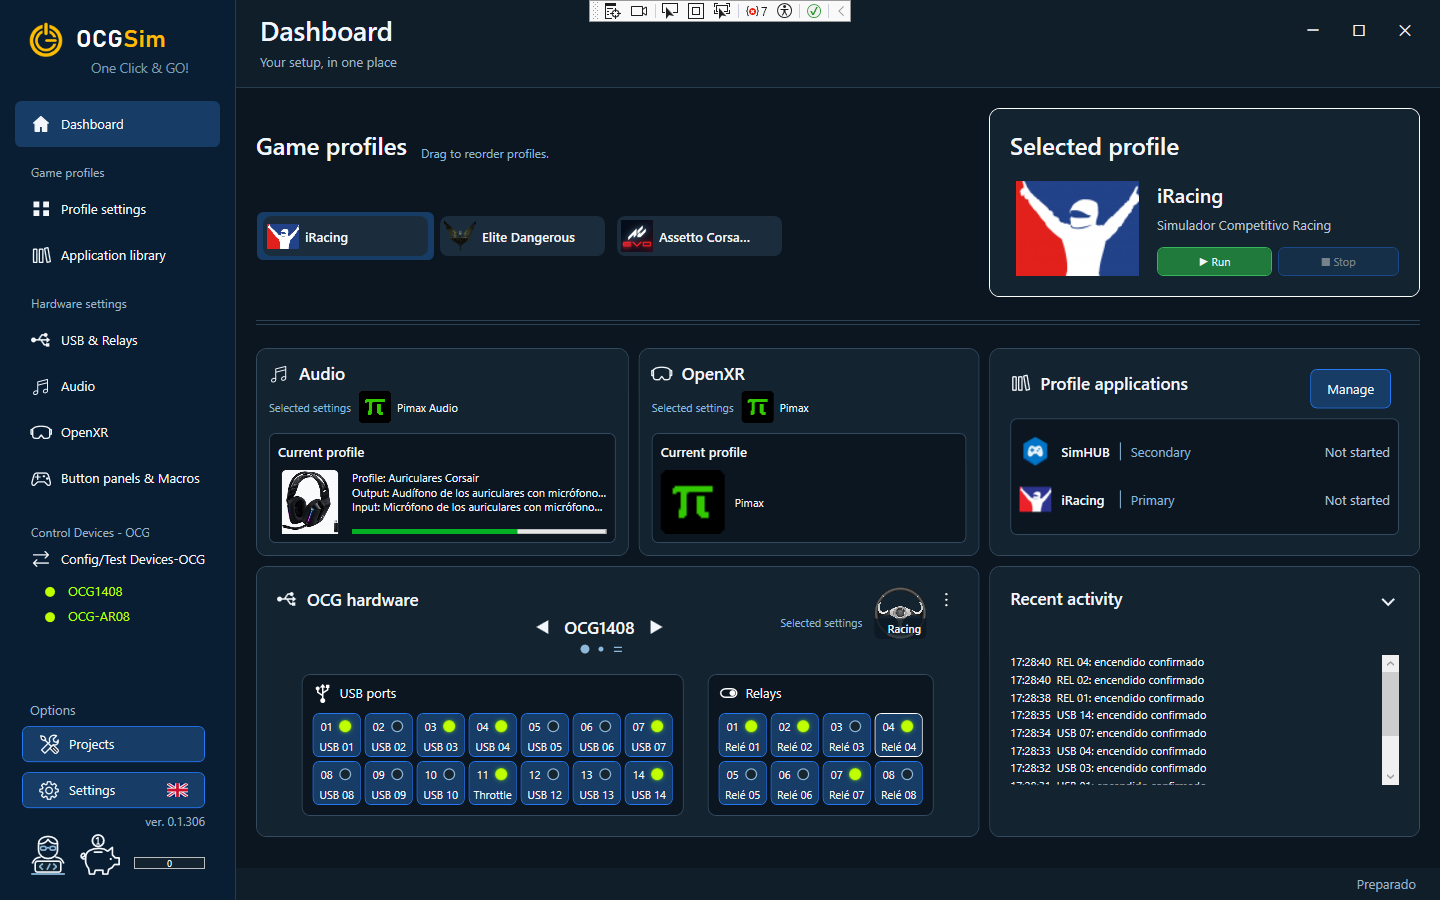
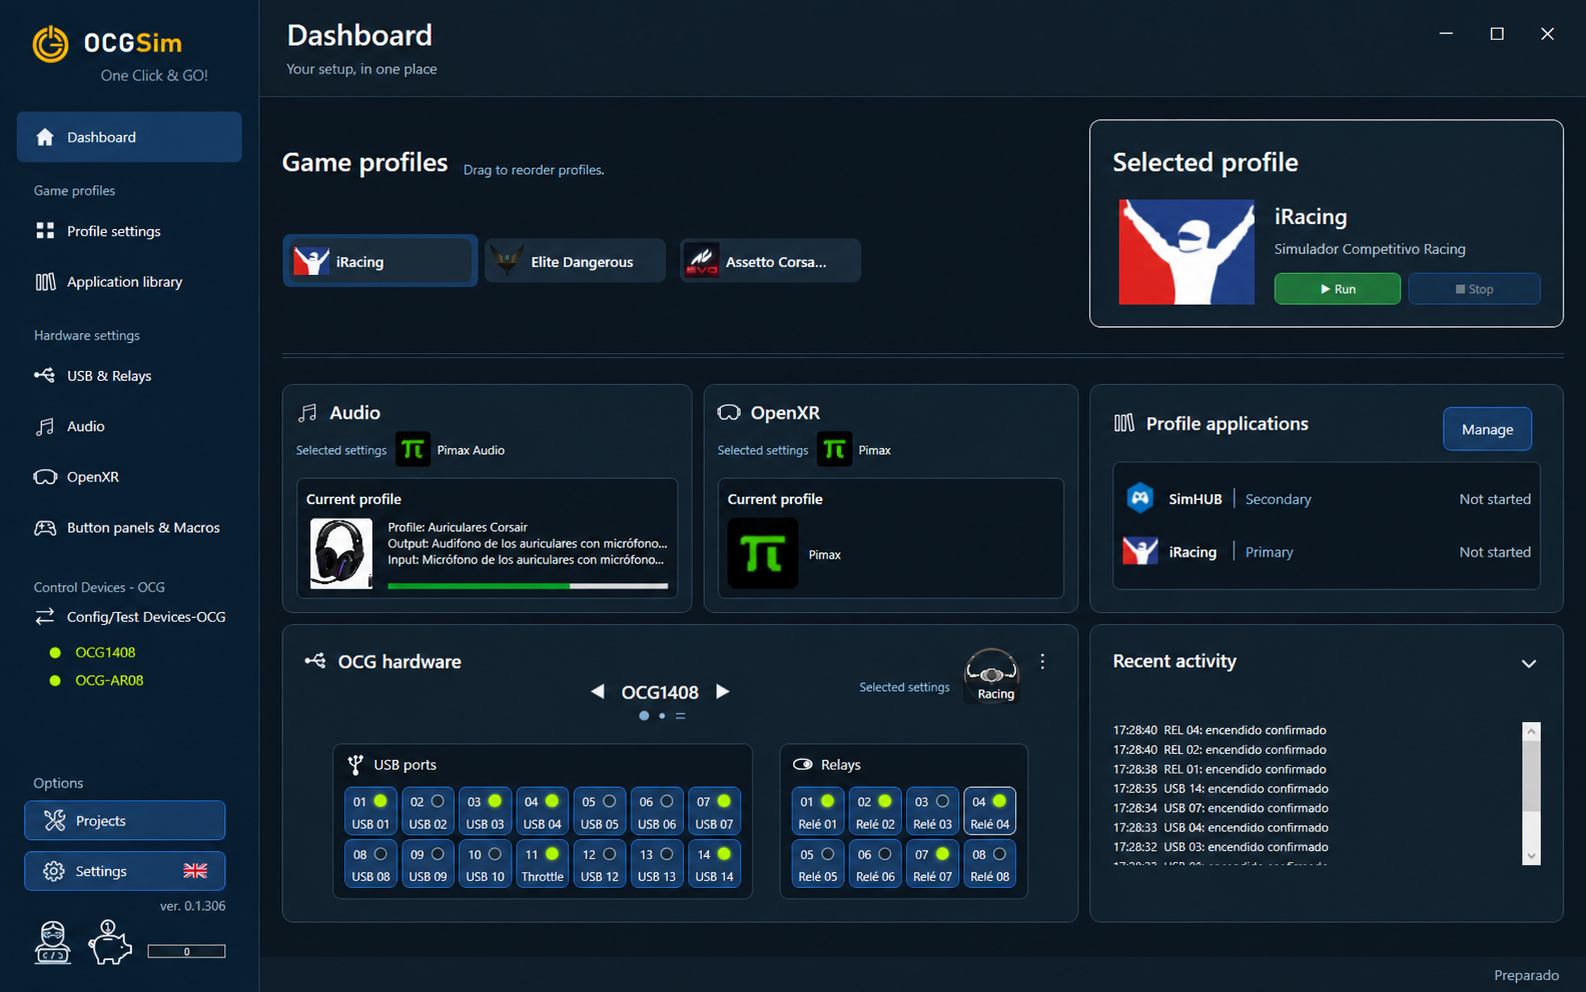
Update GitHub presentation with OCGSim branding

diff --git a/README.md b/README.md
@@ -1,5 +1,5 @@
 <p align="center">
-  <img src="assets/OCGSim-banner.png" alt="OCGSim" width="850">
+  <img src="assets/OCGSim-banner.png" alt="OCGSim" width="600">
 </p>
 
 <p align="center">Game profiles, applications and OCG devices — managed together on Windows.</p>
@@ -12,11 +12,7 @@
 
 ## English
 
-**OCGSim is the new name of OneClick&GO.** This remains its official distribution repository. The repository address stays unchanged, and earlier releases and license documents may use the previous name.
-
-OCGSim brings together game profiles, associated applications, audio and OpenXR settings, and compatible OCG hardware. It also provides firmware installation and update tools for supported OCG devices.
-
-This repository contains Windows installers, release notes and license documents. The application's source code is not published here.
+OCGSim prepares your gaming or simulation setup from a single profile: launch associated applications, apply audio and OpenXR settings, and control USB ports and relays on compatible OCG devices. It also provides tools to drive Bass-Shakers directly from game audio, with adjustable filtering and intensity, and to configure OCG devices and install or update their firmware.
 
 ### Downloads
 
@@ -36,11 +32,7 @@ Donations are voluntary, provide no additional features or benefits, and do not 
 
 ## Español
 
-**OCGSim es el nuevo nombre de OneClick&GO.** Este sigue siendo su repositorio oficial de distribución. Su dirección no cambia; las versiones anteriores y los documentos de licencia pueden conservar el nombre anterior.
-
-OCGSim reúne perfiles de juego, aplicaciones asociadas, ajustes de audio y OpenXR y hardware OCG compatible. También ofrece herramientas de instalación y actualización de firmware para los dispositivos OCG admitidos.
-
-Este repositorio contiene instaladores para Windows, notas de versiones y licencias. El código fuente de la aplicación no se publica aquí.
+OCGSim prepara tu equipo para jugar o simular desde un único perfil: inicia las aplicaciones asociadas, aplica los ajustes de audio y OpenXR y controla los puertos USB y relés de dispositivos OCG compatibles. También ofrece herramientas para usar Bass-Shakers directamente con el audio del juego, con ajustes de filtrado e intensidad, y para configurar los dispositivos OCG e instalar o actualizar su firmware.
 
 ### Descargas
 
@@ -55,5 +47,8 @@ OCGSim es software propietario gratuito para uso personal, privado y no comercia
 Consulta la [licencia original en español](LICENSE.es.txt) antes de descargar o instalar. También está disponible su [traducción al inglés](LICENSE.en.txt). Esta presentación no modifica esos documentos de licencia.
 
 Las donaciones son voluntarias, no ofrecen funciones ni beneficios adicionales y no conceden permisos comerciales ni de redistribución. Se mantienen disponibles los [datos de donantes](donantes.json) y los [objetivos del proyecto](objetivos-donaciones.json).
+
+
+
 
 
